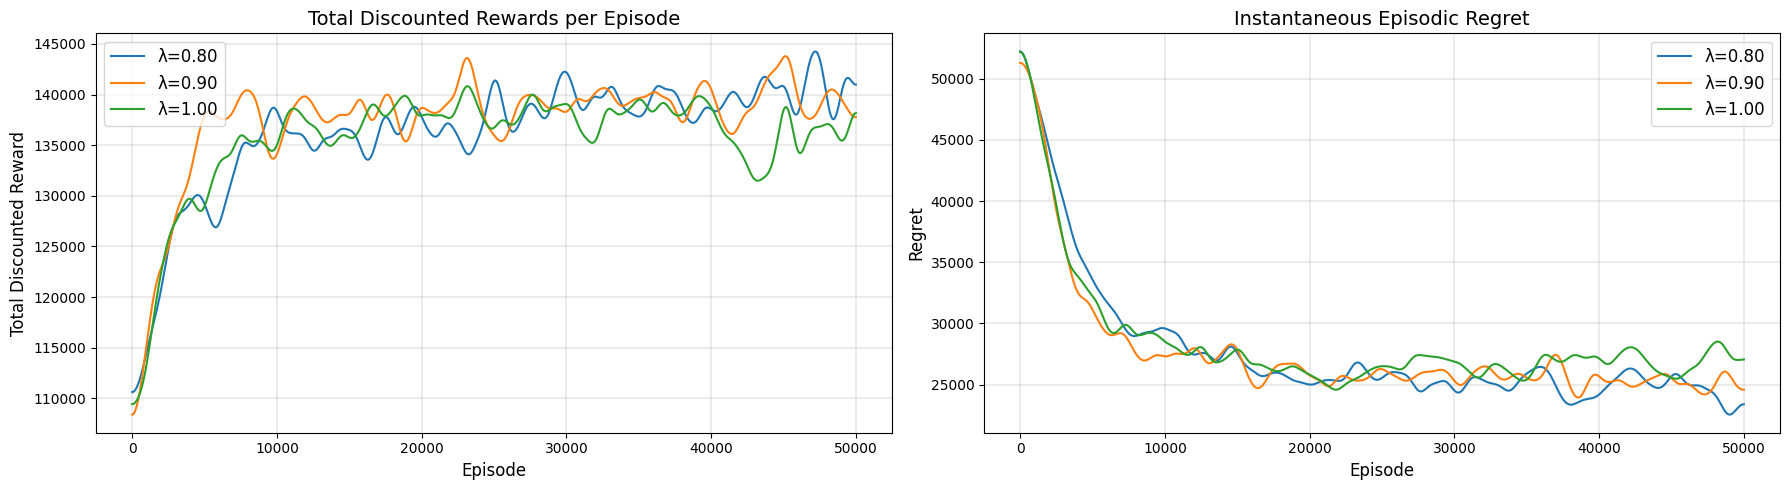
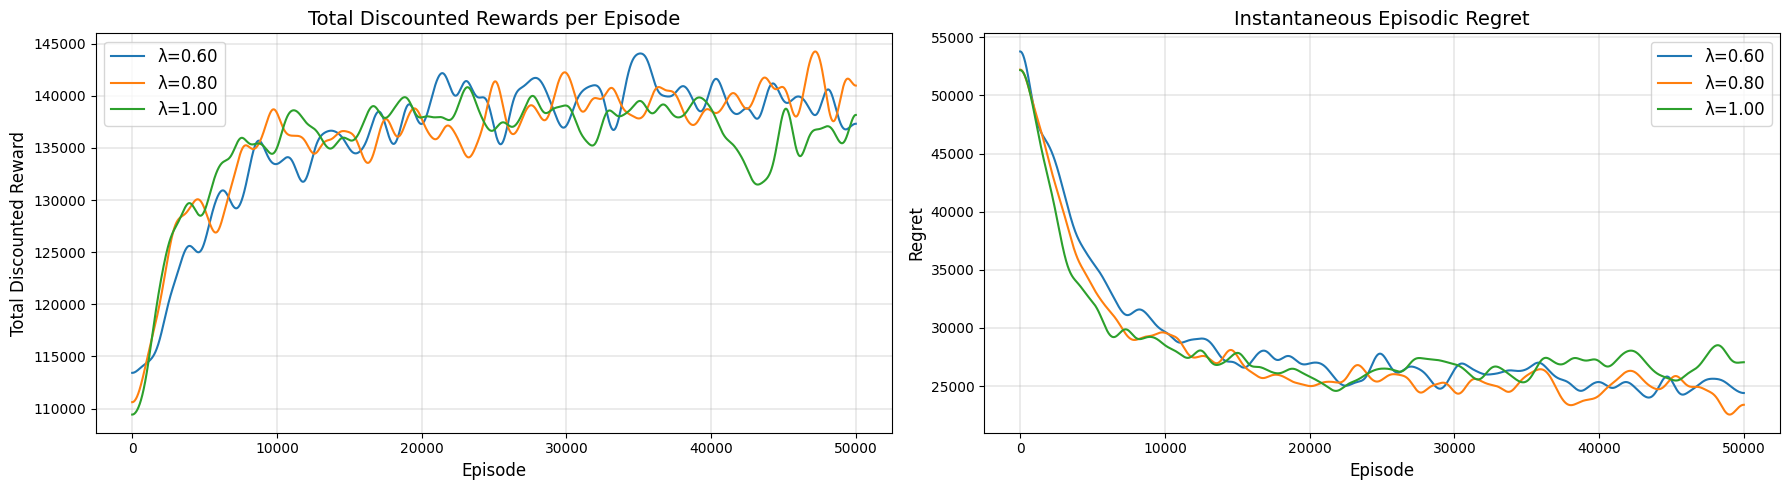
add conclusion and readme

diff --git a/slides/sections/analysis.tex b/slides/sections/analysis.tex
@@ -17,7 +17,7 @@
 \end{figure}
 \end{frame}
 
-\begin{frame}{Analysis: Effect of Trace Decay Parameter}
+\begin{frame}{Analysis: Effect of Trace Decay}
 \begin{figure}
     \centering
     \begin{subfigure}{\textwidth}
@@ -36,6 +36,10 @@
 
 \begin{frame}{Conclusion}
 \begin{itemize}
-    \item TODO
+    \setlength\itemsep{1.5em}
+    \item Learned policies lacked similarity in close neighbourhood, contrary to our intuitive understanding.
+    \item Convergence rate was similar in Q-Learning and SARSA($\lambda$). However, Q-Learning got closer to the optimal policy and acquired less regret.
+    \item Higher exploration improved the policy and speed of convergence, but resulted in more regret.
+    \item Policies learned with smaller trace decay (higher $\lambda$) appeared to be closer to the optimal policy. However, the effect was not very prominent.
 \end{itemize}
 \end{frame}

diff --git a/README.md b/README.md
@@ -1,3 +1,31 @@
 # Finite Inventory Pricing
 
-TODO
+## Brief
+
+Given a inventory of size $K$ and a booking window of $T$ days, learn an optimal pricing strategy for the underlying MDP with unknown transition probabilites.
+
+## Instructions
+
+### Steps to run
+
+```shell
+cd code
+pip install -r requirements.txt
+python main.py --help
+python main.py --verbose --method=q-learning
+python main.py --verbose --method=sarsa
+# python main.py --verbose --method=value-iteration
+# python main.py --verbose --method=policy-iteration
+# python main.py --verbose --method=all
+```
+
+## File Structure
+
+- ``code`` - Python code for modeling the MDP.
+    - ``algorithms.py`` - Algorithms for solving the MDP.
+    - ``constants.py`` - Parameters of the model, environment and algorithm.
+    - ``main.py`` - Driver code invoking the algorithm.
+    - ``model.py`` - Transitions and demand functions governing the model and environment.
+    - ``test.ipynb`` - Code for experimental study.
+
+- ``slides`` - Presentation explaining the problem formulation and experiment results.
